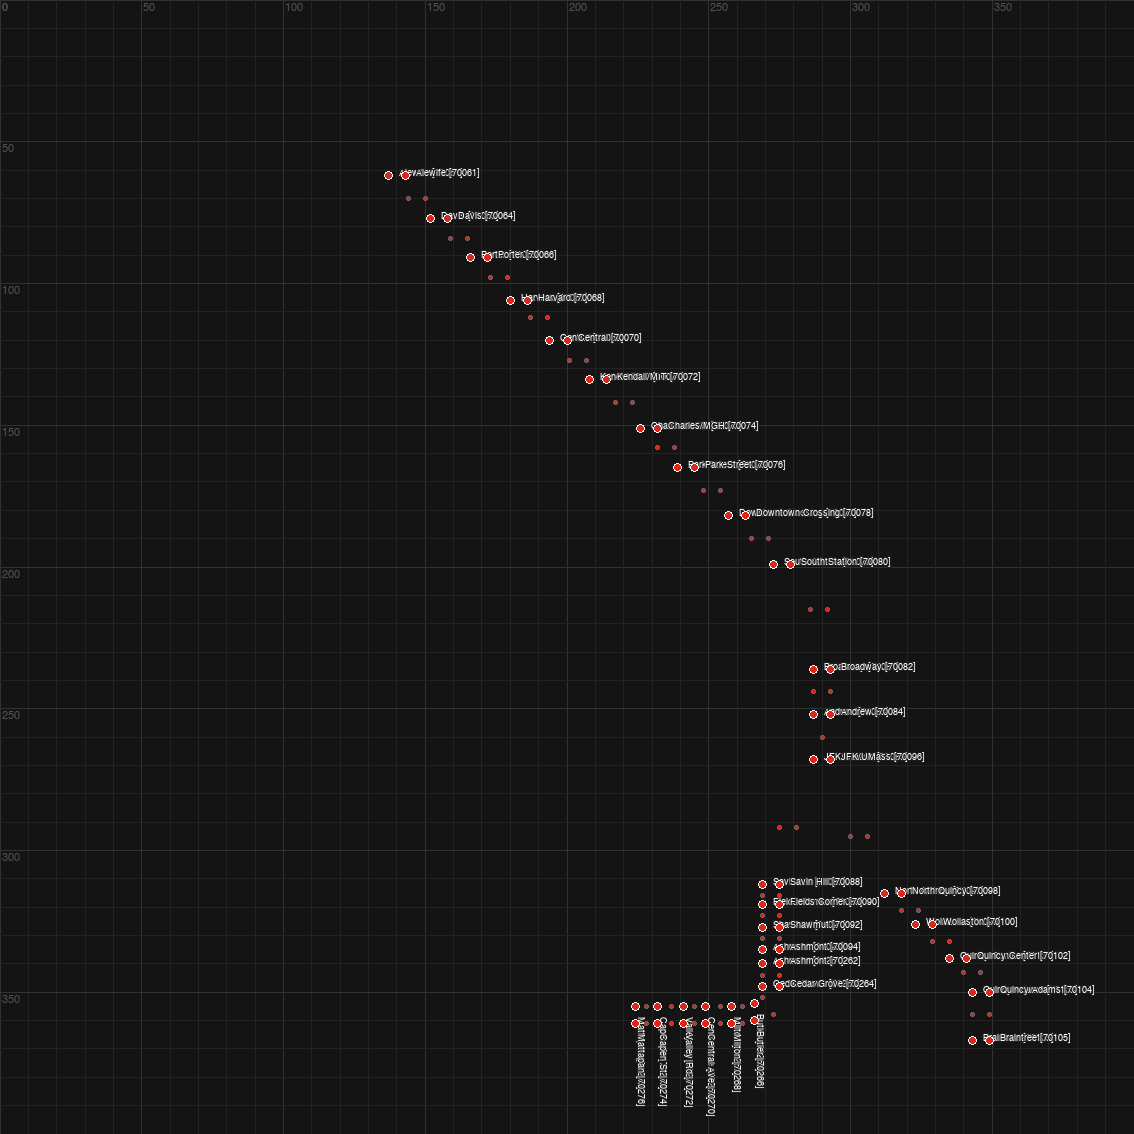
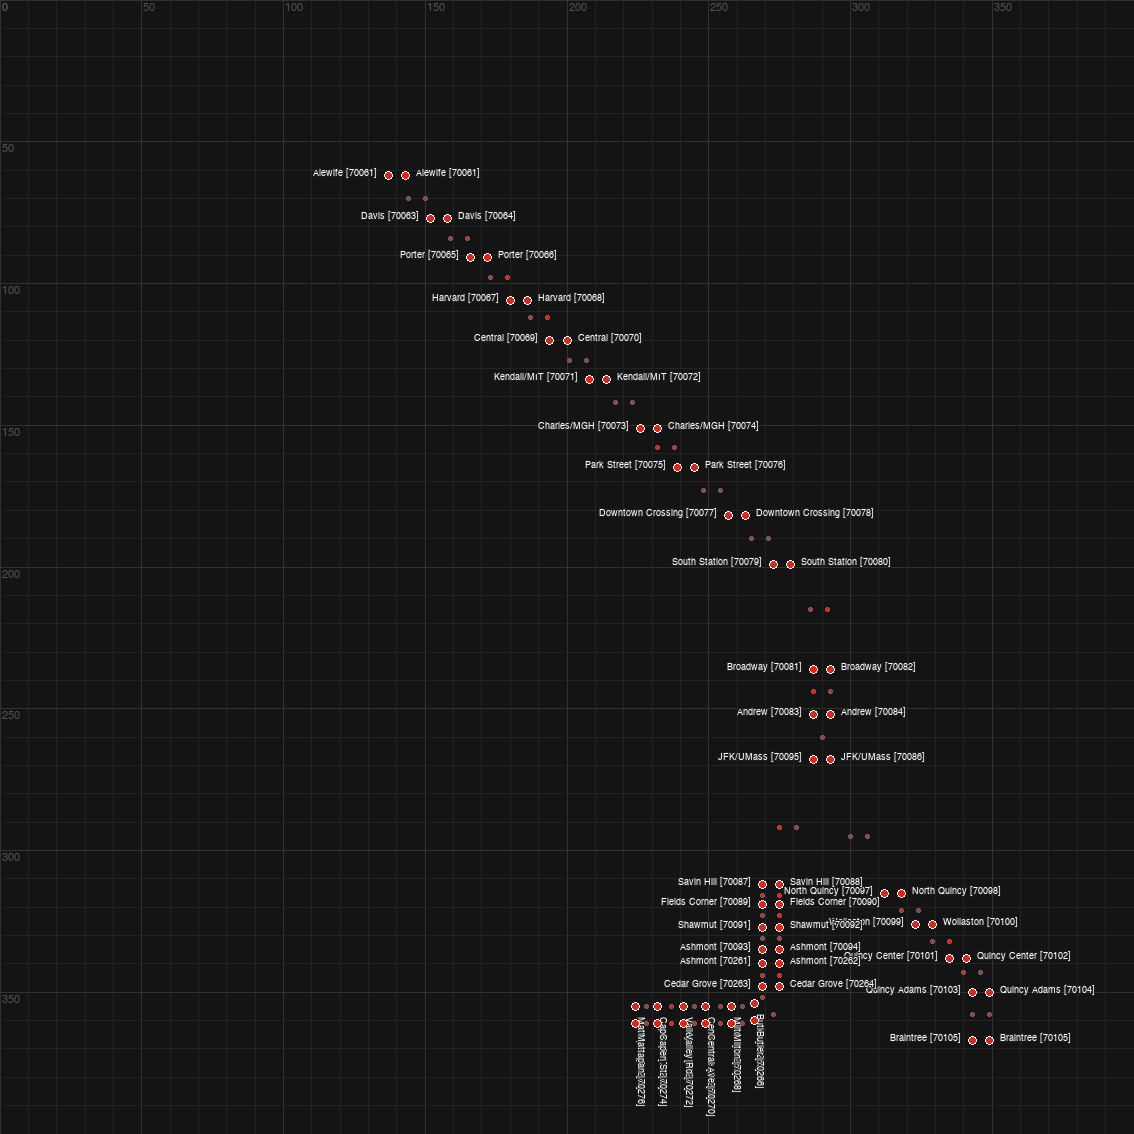
Label each LED by direction: southbound left, northbound right
Every station LED now gets its own label with stop ID, positioned
based on direction_id to avoid overlap between direction pairs.

diff --git a/tools/draw_led_grid.py b/tools/draw_led_grid.py
@@ -72,7 +72,6 @@ def draw_grid_labels(draw, font):
 
 
 def draw_leds(draw, img, leds, color, font):
-    labeled = set()
     gap_px = int(LABEL_GAP * MM)
 
     for led in leds:
@@ -84,25 +83,30 @@ def draw_leds(draw, img, leds, color, font):
             draw.ellipse([(px - r, py - r), (px + r, py + r)],
                          fill=color, outline="white", width=1)
 
-            loc_key = (led["stop_name"], led["x"], led["y"])
-            if loc_key not in labeled:
-                labeled.add(loc_key)
-                stop = led["stop_id"] or "?"
-                label = f"{led['stop_name']} [{stop}]"
+            stop = led["stop_id"] or "?"
+            label = f"{led['stop_name']} [{stop}]"
 
-                if led["stop_name"] in ROTATED_LABELS:
-                    txt_img = Image.new("RGBA", (300, 20), (0, 0, 0, 0))
-                    txt_draw = ImageDraw.Draw(txt_img)
-                    txt_draw.text((0, 0), label, fill="white", font=font,
-                                  stroke_width=1, stroke_fill=(30, 30, 30))
-                    txt_img = txt_img.rotate(270, expand=True)
-                    img.paste(txt_img,
-                              (px - txt_img.width // 2, py + gap_px),
-                              txt_img)
-                else:
-                    draw.text((px + gap_px, py - 6), label,
-                              fill="white", font=font,
+            if led["stop_name"] in ROTATED_LABELS:
+                txt_img = Image.new("RGBA", (300, 20), (0, 0, 0, 0))
+                txt_draw = ImageDraw.Draw(txt_img)
+                txt_draw.text((0, 0), label, fill="white", font=font,
                               stroke_width=1, stroke_fill=(30, 30, 30))
+                txt_img = txt_img.rotate(270, expand=True)
+                img.paste(txt_img,
+                          (px - txt_img.width // 2, py + gap_px),
+                          txt_img)
+            elif led["direction_id"] == 0:
+                # Southbound/outbound: label to the left
+                bbox = font.getbbox(label)
+                tw = bbox[2] - bbox[0]
+                draw.text((px - gap_px - tw, py - 6), label,
+                          fill="white", font=font,
+                          stroke_width=1, stroke_fill=(30, 30, 30))
+            else:
+                # Northbound/inbound: label to the right
+                draw.text((px + gap_px, py - 6), label,
+                          fill="white", font=font,
+                          stroke_width=1, stroke_fill=(30, 30, 30))
         else:
             r = 2
             draw.ellipse([(px - r, py - r), (px + r, py + r)],
